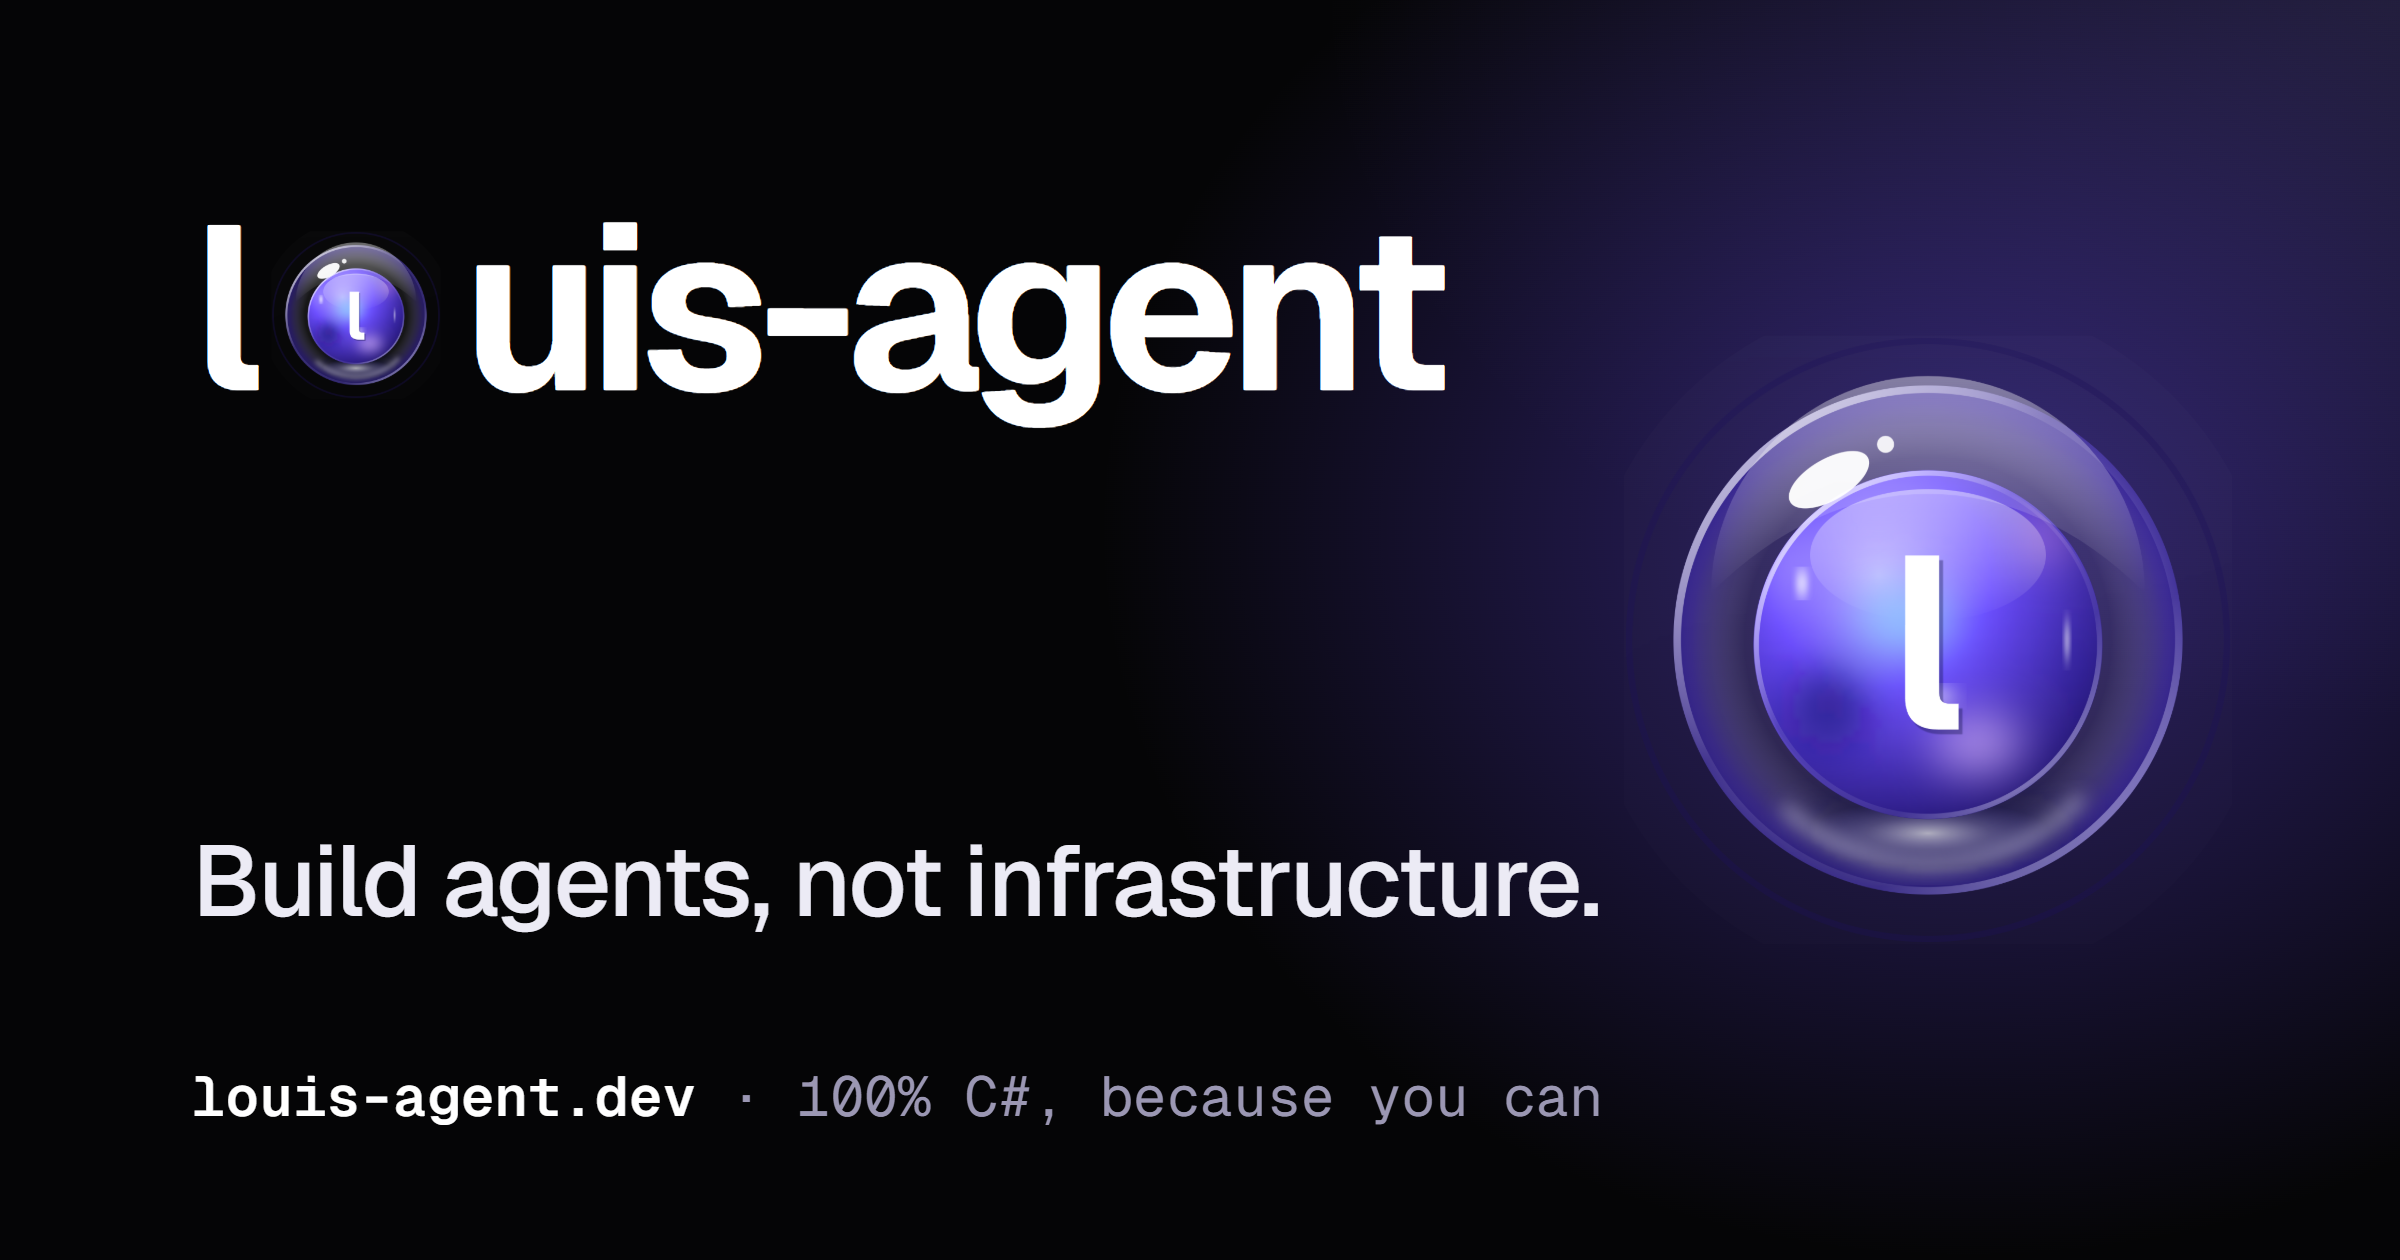
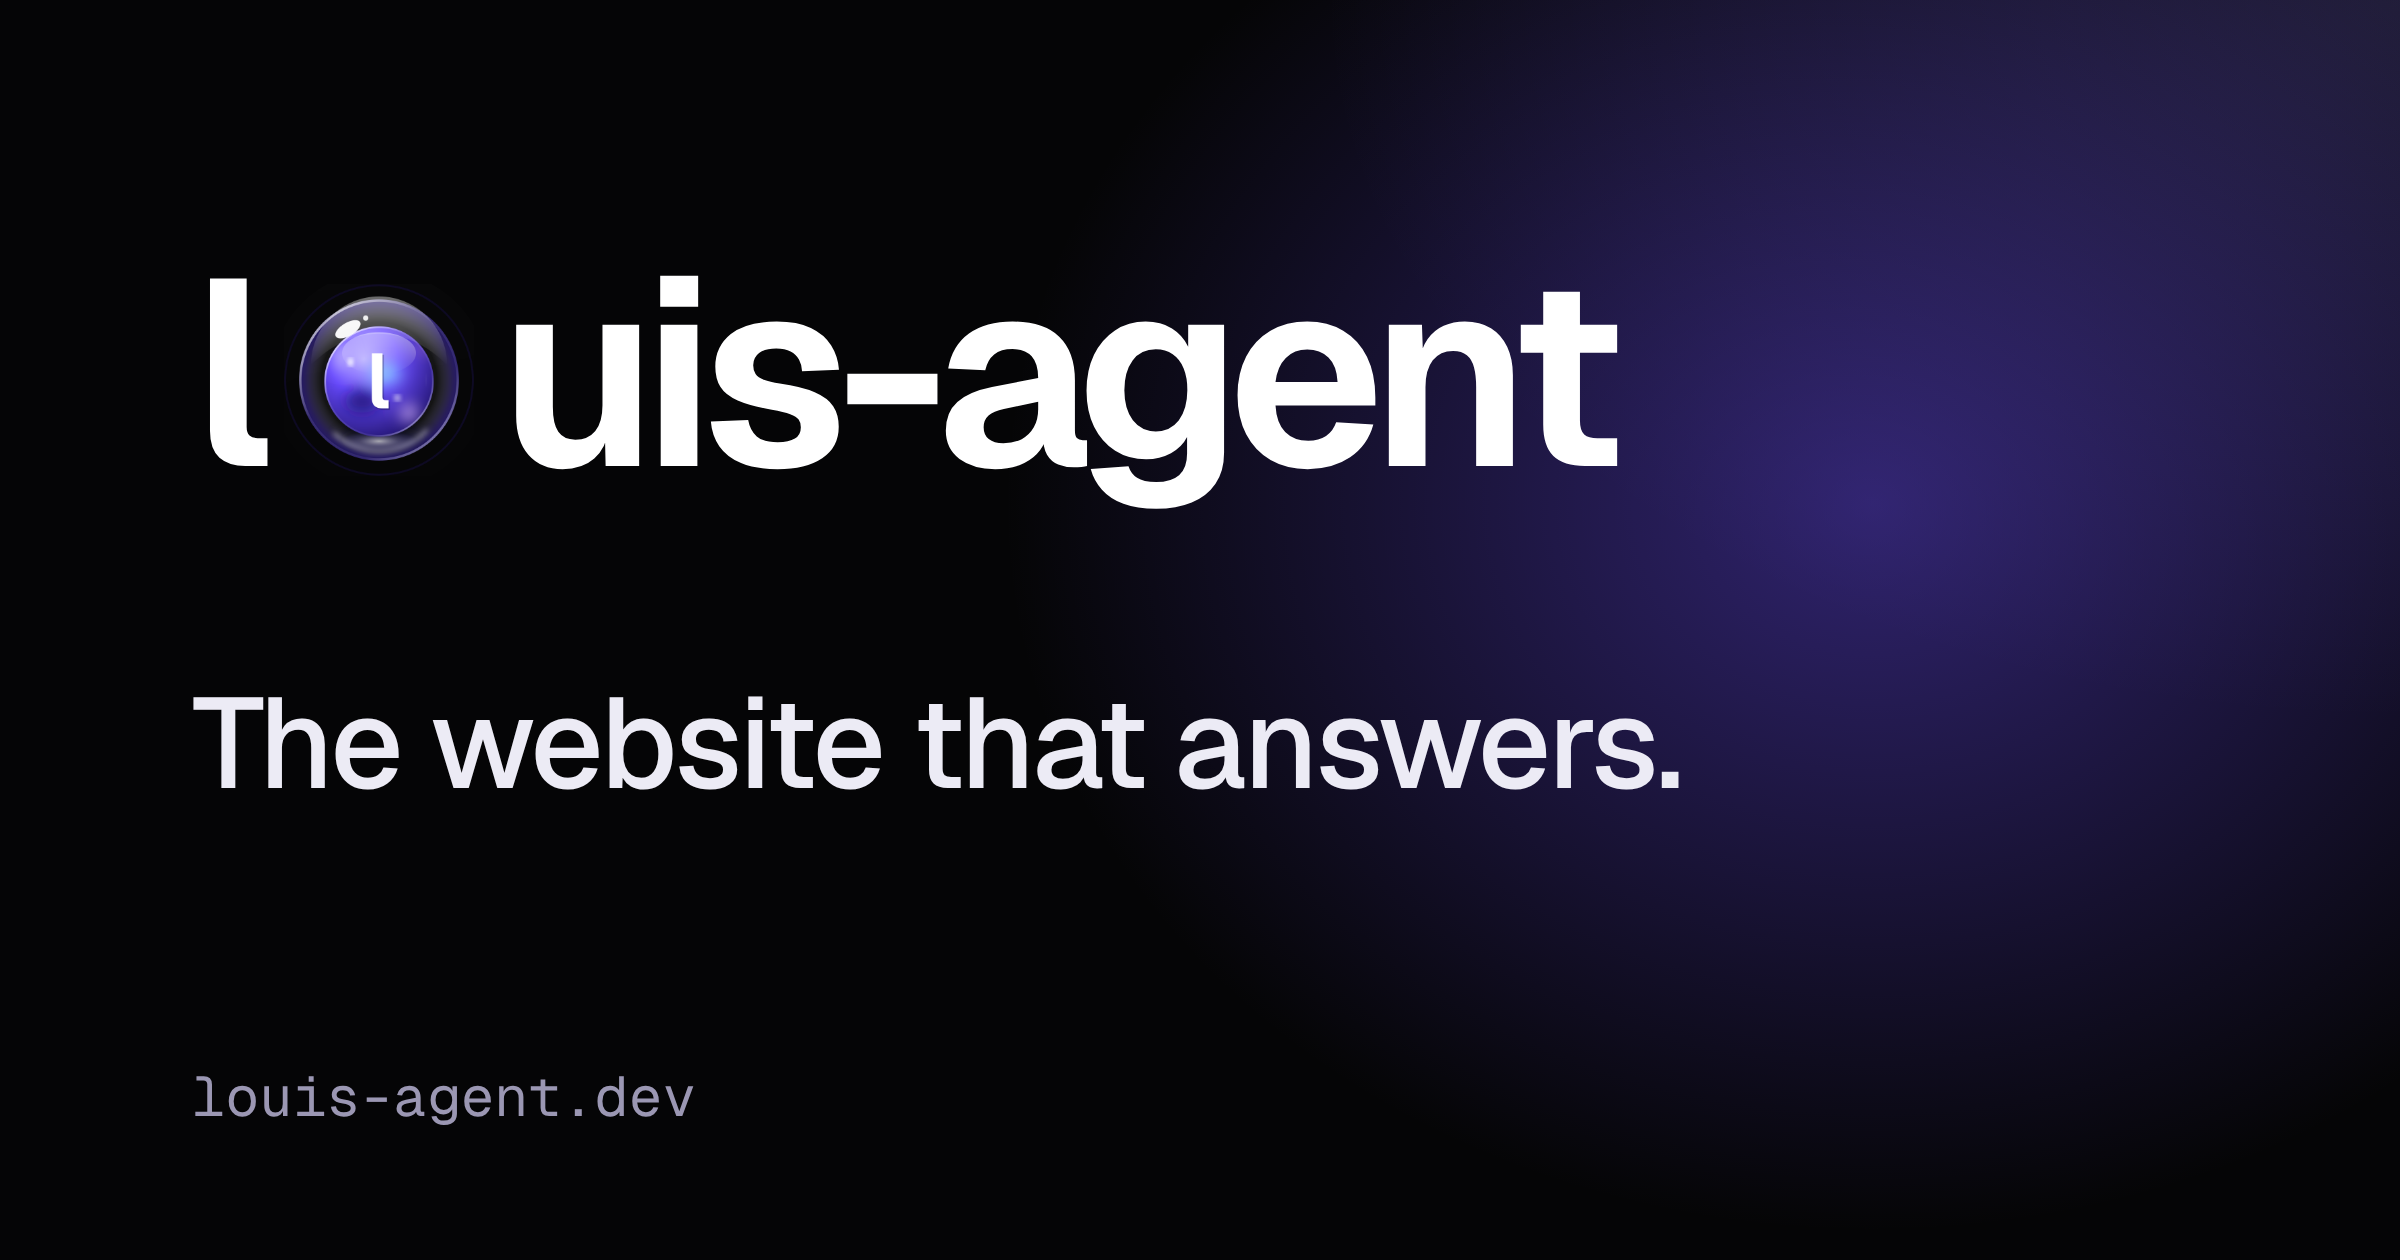
feat(f161): the social card shows one ball and the slogan
A shared link to louis-agent.dev showed the ball twice, as the name's o and again
large beside it, then "Build agents, not infrastructure." and a foot of
"louis-agent.dev · 100% C#, because you can". The brand guide says the mark never
stands beside the name as well as inside it, and the research asked for one line
an owner understands. The card now keeps the ball once, as the o, then "The website
that answers." and the address alone, with no dot between words.

Drawn with the repo's own tool (film-export social-card), light for the site and
both looks for the brand folder, and looked at by eye at full size. The foot's grey
passes AA on both grounds (about 6:1 light, 7:1 dark).

Tests: SocialCardPageTests.TheCard_HasOneBall_TheSlogan_AndTheAddressAlone was
seen failing on the old template, then passing.

diff --git a/src/tools/louis-agent.film-export/Cards/social-card.html b/src/tools/louis-agent.film-export/Cards/social-card.html
@@ -1,7 +1,8 @@
 <!doctype html>
-<!-- The share card (FX174): louis-agent's name with the glass orb as its o, the orb large beside it in a violet light,
-     the line and the site's address, at 1200 by 630, the size a link preview asks for. The orb is a photograph of the site's own, put in for {orb}; the
-     card's ground, light or dark, is the class put in for {look}. The type is Geist, loaded as the site loads it. -->
+<!-- The share card (FX174): louis-agent's name with the glass orb as its o, the one ball on the card, in a violet
+     light, then the site's slogan and its address, at 1200 by 630, the size a link preview asks for. The orb is a
+     photograph of the site's own, put in for {orb}; the card's ground, light or dark, is the class put in for {look}.
+     The type is Geist, loaded as the site loads it. -->
 <html lang="en">
 <head>
 <meta charset="utf-8">
@@ -11,36 +12,31 @@
   body { position: relative; font-family: "Geist", system-ui, sans-serif; }
   body.dark {
     color: #ffffff;
-    background: radial-gradient(620px 520px at 82% 42%, rgba(107, 77, 255, .42), rgba(107, 77, 255, 0) 70%),
+    background: radial-gradient(620px 520px at 78% 40%, rgba(107, 77, 255, .42), rgba(107, 77, 255, 0) 70%),
       radial-gradient(900px 600px at 100% 0%, rgba(146, 130, 255, .18), rgba(0, 0, 0, 0) 60%), #050506;
   }
   body.light {
     color: #0b0b0e;
-    background: radial-gradient(620px 520px at 82% 42%, rgba(107, 77, 255, .26), rgba(107, 77, 255, 0) 70%),
+    background: radial-gradient(620px 520px at 78% 40%, rgba(107, 77, 255, .26), rgba(107, 77, 255, 0) 70%),
       radial-gradient(900px 600px at 0% 100%, rgba(226, 223, 255, .9), rgba(226, 223, 255, 0) 60%), #f4f2fb;
   }
-  .name { position: absolute; left: 96px; top: 96px; display: flex; align-items: center; font-weight: 650;
-    font-size: 116px; letter-spacing: -.045em; line-height: 1; }
+  .name { position: absolute; left: 96px; top: 120px; display: flex; align-items: center; font-weight: 650;
+    font-size: 132px; letter-spacing: -.045em; line-height: 1; }
   .name img { width: .86em; height: .86em; margin: .06em .02em 0; }
-  .big { position: absolute; right: 56px; top: 140px; width: 360px; height: 360px; }
   /* The photograph is taken in a square frame; only the round orb and its ring are kept. */
-  .name img, .big { clip-path: circle(48%); }
-  .line { position: absolute; left: 96px; top: 408px; margin: 0; font-weight: 500; font-size: 50px;
+  .name img { clip-path: circle(48%); }
+  .line { position: absolute; left: 96px; top: 330px; margin: 0; font-weight: 500; font-size: 64px;
     letter-spacing: -.02em; }
   .dark .line { color: #ecebf5; }
   .light .line { color: #1d1b26; }
   .foot { position: absolute; left: 96px; top: 530px; margin: 0; font-family: "Geist Mono", monospace; font-size: 28px; }
   .dark .foot { color: #9b97b3; }
   .light .foot { color: #5d5a6b; }
-  .foot b { font-weight: 600; }
-  .dark .foot b { color: #ffffff; }
-  .light .foot b { color: #0b0b0e; }
 </style>
 </head>
 <body class="{look}">
   <div class="name">l<img src="{orb}" alt="">uis-agent</div>
-  <img class="big" src="{orb}" alt="">
-  <p class="line">Build agents, not infrastructure.</p>
-  <p class="foot"><b>louis-agent.dev</b> · 100% C#, because you can</p>
+  <p class="line">The website that answers.</p>
+  <p class="foot">louis-agent.dev</p>
 </body>
 </html>

diff --git a/src/tests/tools/louis-agent.film-export.tests/SocialCardPageTests.cs b/src/tests/tools/louis-agent.film-export.tests/SocialCardPageTests.cs
@@ -25,4 +25,23 @@ public class SocialCardPageTests
             Assert.That(page, Does.Contain("<body class=\"light\">"));
         });
     }
+
+    /// <summary>
+    /// The card shows the ball once, as the name's o, since the mark never stands beside the name as well as inside it
+    /// (the brand guide); its line is the site's slogan, and its foot is the address alone, with no dot between words.
+    /// </summary>
+    [Test]
+    public void TheCard_HasOneBall_TheSlogan_AndTheAddressAlone()
+    {
+        string template = File.ReadAllText(Path.Combine(TestPaths.RepoRoot, SocialCardPage.TemplatePath));
+        string body = template[template.IndexOf("<body", StringComparison.Ordinal)..];
+
+        Assert.Multiple(() =>
+        {
+            Assert.That(body.Split("{orb}").Length - 1, Is.EqualTo(1), "one ball");
+            Assert.That(body, Does.Contain("<p class=\"line\">The website that answers.</p>"));
+            Assert.That(body, Does.Contain("<p class=\"foot\">louis-agent.dev</p>"));
+            Assert.That(body, Does.Not.Contain("·"));
+        });
+    }
 }
